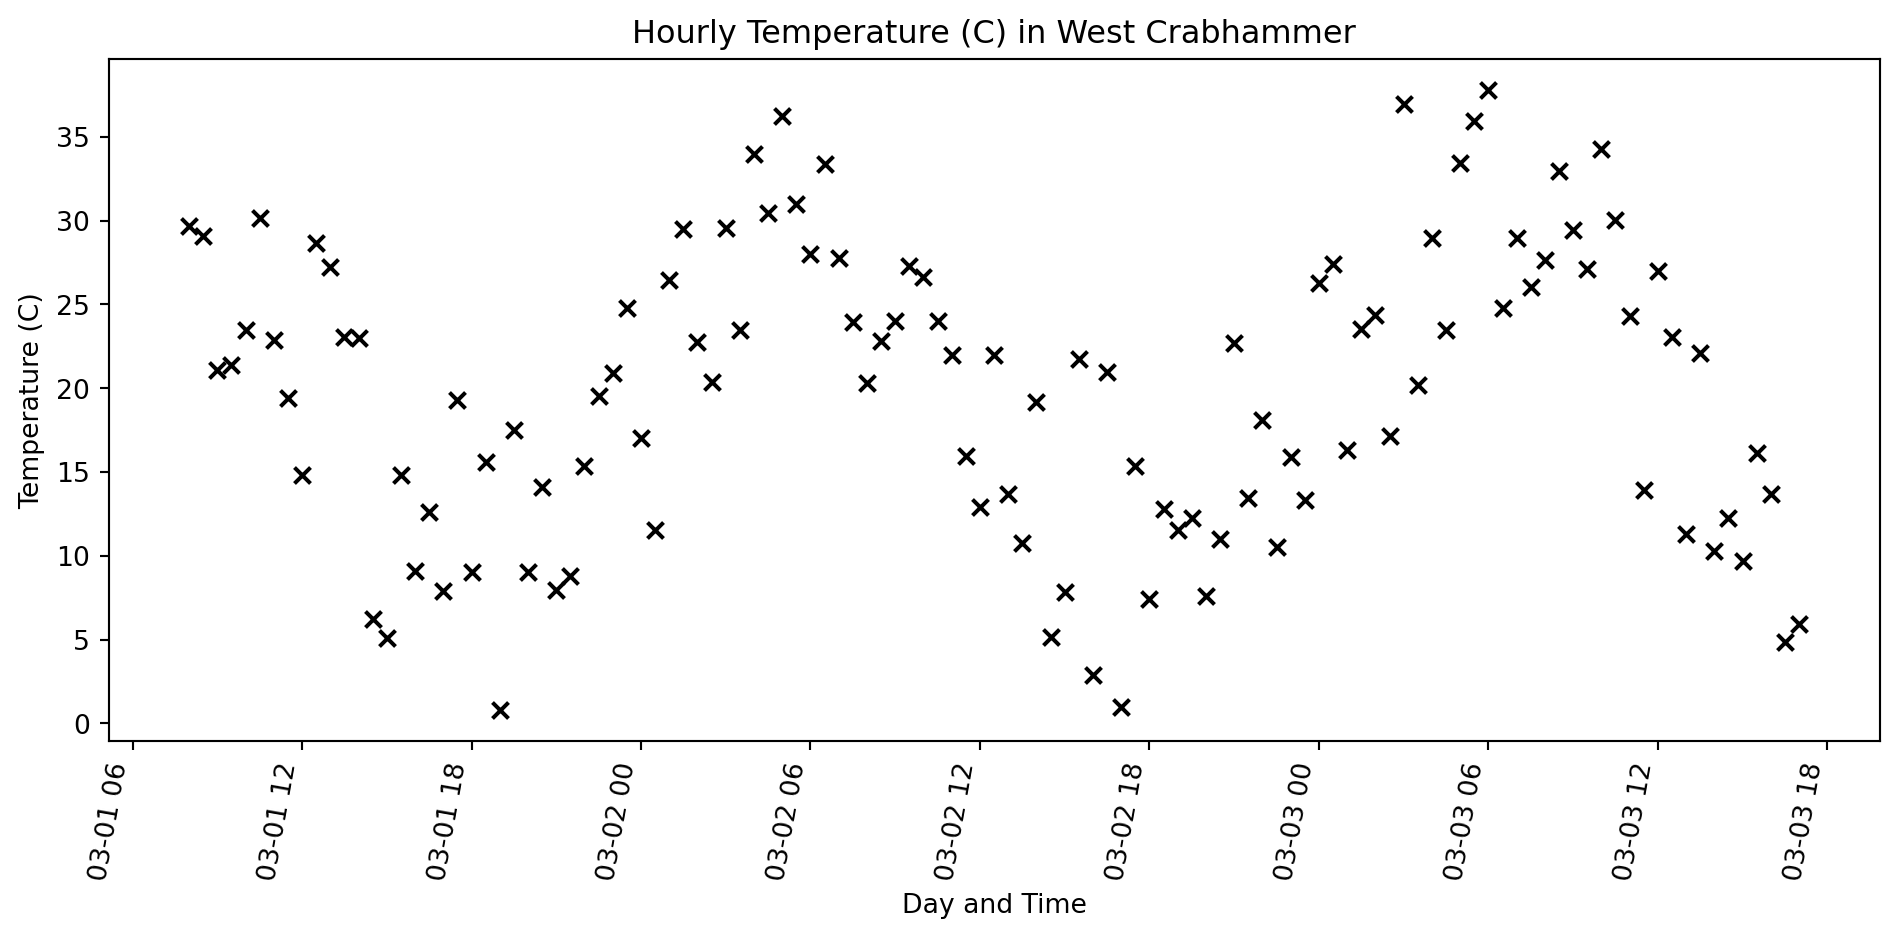
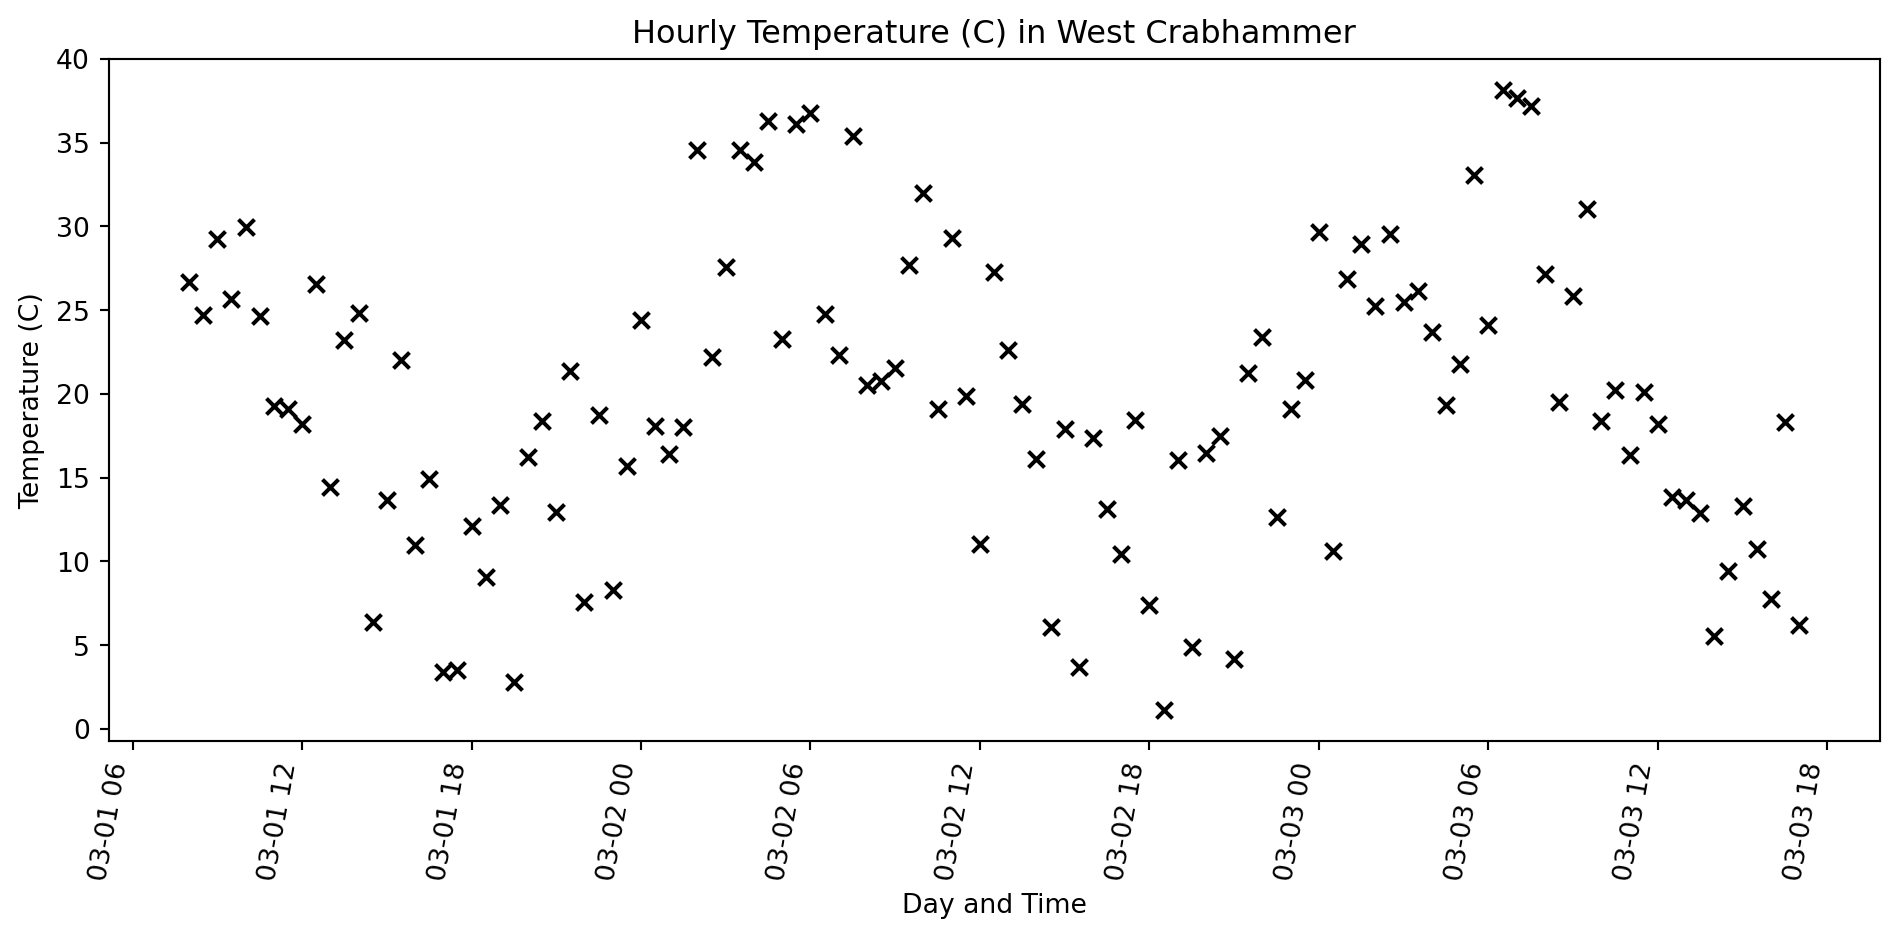
slideshow work

diff --git a/docs/python_geospatial_basics.html b/docs/python_geospatial_basics.html
@@ -261,7 +261,7 @@
 <section id="basic-numbers" class="slide level2">
 <h2>Basic Numbers</h2>
 <p>Floats and Ints don’t do anything all that surprising</p>
-<div id="711640d7" class="cell columns column-output-location" data-execution_count="1">
+<div id="9b6c397d" class="cell columns column-output-location" data-execution_count="1">
 <div class="column">
 <div class="sourceCode cell-code" id="cb1"><pre class="sourceCode numberSource python number-lines code-with-copy"><code class="sourceCode python"><span id="cb1-1"><a></a>a <span class="op">=</span> <span class="dv">2</span> <span class="op">+</span> <span class="dv">2</span></span>
 <span id="cb1-2"><a></a>b <span class="op">=</span> <span class="fl">2.0</span> <span class="op">+</span> <span class="fl">2.0</span></span>
@@ -288,7 +288,7 @@ but 5 // 4 is 1</code></pre>
 <section id="sequences" class="slide level2">
 <h2>Sequences</h2>
 <p>Lists, tuples, and strings ae all sequences</p>
-<div id="ca3ec520" class="cell columns column-output-location" data-execution_count="2">
+<div id="32bbd480" class="cell columns column-output-location" data-execution_count="2">
 <div class="column">
 <div class="sourceCode cell-code" id="cb3"><pre class="sourceCode numberSource python number-lines code-with-copy"><code class="sourceCode python"><span id="cb3-1"><a></a><span class="co"># a list</span></span>
 <span id="cb3-2"><a></a>a_list <span class="op">=</span> [<span class="dv">1</span>, <span class="dv">2</span>, <span class="dv">3</span>, <span class="dv">4</span>, <span class="dv">5</span>, <span class="dv">6</span>, <span class="dv">7</span>, <span class="dv">8</span>, <span class="dv">9</span>]</span>
@@ -335,7 +335,7 @@ neushorn?</code></pre>
 </section>
 <section id="dictionaries" class="slide level2">
 <h2>Dictionaries</h2>
-<div id="2b6f3851" class="cell columns column-output-location" data-execution_count="3">
+<div id="e7bf541a" class="cell columns column-output-location" data-execution_count="3">
 <div class="column">
 <div class="sourceCode cell-code" id="cb5"><pre class="sourceCode numberSource python number-lines code-with-copy"><code class="sourceCode python"><span id="cb5-1"><a></a>pets <span class="op">=</span> {<span class="st">'honden'</span>: <span class="dv">26</span>, <span class="st">'katten'</span>: <span class="dv">100</span>}</span>
 <span id="cb5-2"><a></a></span>
@@ -354,7 +354,7 @@ neushorn?</code></pre>
 </section>
 <section id="iterating" class="slide level2">
 <h2>Iterating</h2>
-<div id="aad7616e" class="cell columns column-output-location" data-execution_count="4">
+<div id="02a0f6f2" class="cell columns column-output-location" data-execution_count="4">
 <div class="column">
 <div class="sourceCode cell-code" id="cb7"><pre class="sourceCode numberSource python number-lines code-with-copy"><code class="sourceCode python"><span id="cb7-1"><a></a>a <span class="op">=</span> [<span class="dv">1</span>, <span class="dv">2</span>, <span class="dv">3</span>, <span class="dv">4</span>, <span class="dv">5</span>, <span class="dv">6</span>, <span class="dv">7</span>, <span class="dv">8</span>, <span class="dv">9</span>]</span>
 <span id="cb7-2"><a></a></span>
@@ -383,7 +383,7 @@ is the same as
 </section>
 <section id="pandas-dataframe" class="slide level2 scrollable">
 <h2>Pandas DataFrame</h2>
-<div id="770e02d1" class="cell columns column-output-location" data-execution_count="5">
+<div id="a5c826ee" class="cell columns column-output-location" data-execution_count="5">
 <div class="column">
 <div class="sourceCode cell-code" id="cb9"><pre class="sourceCode numberSource python number-lines code-with-copy"><code class="sourceCode python"><span id="cb9-1"><a></a><span class="im">from</span> datetime <span class="im">import</span> datetime, timedelta</span>
 <span id="cb9-2"><a></a><span class="im">from</span> random <span class="im">import</span> uniform</span>
@@ -446,27 +446,27 @@ is the same as
 <tr class="odd">
 <td data-quarto-table-cell-role="th">0</td>
 <td>2025-03-01 08:00:00</td>
-<td>32.449326</td>
+<td>27.432256</td>
 </tr>
 <tr class="even">
 <td data-quarto-table-cell-role="th">1</td>
 <td>2025-03-01 08:30:00</td>
-<td>22.978317</td>
+<td>34.213410</td>
 </tr>
 <tr class="odd">
 <td data-quarto-table-cell-role="th">2</td>
 <td>2025-03-01 09:00:00</td>
-<td>22.265123</td>
+<td>22.770223</td>
 </tr>
 <tr class="even">
 <td data-quarto-table-cell-role="th">3</td>
 <td>2025-03-01 09:30:00</td>
-<td>17.305400</td>
+<td>22.224300</td>
 </tr>
 <tr class="odd">
 <td data-quarto-table-cell-role="th">4</td>
 <td>2025-03-01 10:00:00</td>
-<td>25.785833</td>
+<td>32.481565</td>
 </tr>
 </tbody>
 </table>
@@ -477,7 +477,7 @@ is the same as
 </section>
 <section id="pandas-dataframe-cont." class="slide level2 scrollable">
 <h2>Pandas DataFrame Cont.</h2>
-<div id="6e908c83" class="cell columns column-output-location" data-execution_count="6">
+<div id="617af02f" class="cell columns column-output-location" data-execution_count="6">
 <div class="column">
 <div class="sourceCode cell-code" id="cb10"><pre class="sourceCode numberSource python number-lines code-with-copy"><code class="sourceCode python"><span id="cb10-1"><a></a><span class="im">from</span> datetime <span class="im">import</span> datetime, timedelta</span>
 <span id="cb10-2"><a></a><span class="im">from</span> random <span class="im">import</span> uniform</span>
@@ -571,9 +571,15 @@ Figure&nbsp;1: A line plot on a polar axis
 </div>
 </div></div>
 </section>
-<section id="homework" class="slide level2">
+<section id="homework" class="slide level2 smaller">
 <h2>Homework</h2>
-<p>If you are choosing Python as you language in this course, do the following: + Create a jupyter notebook. +</p>
+<p>If you are choosing Python as you language in this course, create a jupyter notebook and do the following:</p>
+<ul>
+<li class="fragment">Download the results from the class survey from <a href="https://docs.google.com/spreadsheets/d/17qg3d2N1WmE3cIoz5SGpP2AGesVNmaZTwu4ljIRii4U/edit?usp=sharing">here</a> as a csv file.</li>
+<li class="fragment">Read the csv into a Pandas DataFrame.</li>
+<li class="fragment">The headers are a mess! Change the column names to be reasonable. Remember, if you want to be able to access the data as an attribute, the column names need to not have spaces in them. Hint: <em>columns</em> is a mutable attribute of the dataframe so <code>df.columns = some_list_of the correct_length</code> will assign new column names.</li>
+</ul>
+<p>If you are only going the R route, do the above, but in R. (Hints Below.) + data &lt;- read.csv(“my_data.csv”)</p>
 </section></section>
 <section>
 <section id="exploring-vector-data-with-geopandas" class="title-slide slide level1 center" data-background-image="images/pandas.png">
@@ -612,7 +618,7 @@ Figure&nbsp;1: A line plot on a polar axis
 </section>
 <section id="polygon" class="slide level2">
 <h2>Polygon</h2>
-<div id="616987c7" class="cell columns column-output-location" data-execution_count="8">
+<div id="b2e479a6" class="cell columns column-output-location" data-execution_count="8">
 <div class="column">
 <div class="sourceCode cell-code" id="cb12"><pre class="sourceCode numberSource python number-lines code-with-copy"><code class="sourceCode python"><span id="cb12-1"><a></a><span class="im">from</span> shapely <span class="im">import</span> Polygon</span>
 <span id="cb12-2"><a></a></span>
@@ -639,7 +645,7 @@ Figure&nbsp;1: A line plot on a polar axis
 <section id="reading-files" class="slide level2">
 <h2>Reading Files</h2>
 <p>Here we will read a geojson using the <code>read_file</code> method.</p>
-<div id="4d807045" class="cell columns column-output-location" data-execution_count="9">
+<div id="908ac4cc" class="cell columns column-output-location" data-execution_count="9">
 <div class="column">
 <div class="sourceCode cell-code" id="cb14"><pre class="sourceCode numberSource python number-lines code-with-copy"><code class="sourceCode python"><span id="cb14-1"><a></a><span class="im">from</span> pathlib <span class="im">import</span> Path</span>
 <span id="cb14-2"><a></a><span class="im">import</span> geopandas <span class="im">as</span> gpd</span>

diff --git a/docs/index.html b/docs/index.html
@@ -129,8 +129,8 @@
 <section id="geog-441-index" class="title-slide slide level1 center">
 <h1>GEOG 441 Index</h1>
 <p>Links to lecture slides</p>
-<p><a href="python_geospatial_basics.html">Lecture 1</a></p>
-<p><a href="R_geospatial_basics.html">Lecture 2</a></p>
+<p><a href="python_geospatial_basics.html">Python Lecures</a></p>
+<p><a href="R_geospatial_basics.html">R Lectures</a></p>
 
 
 </section>
